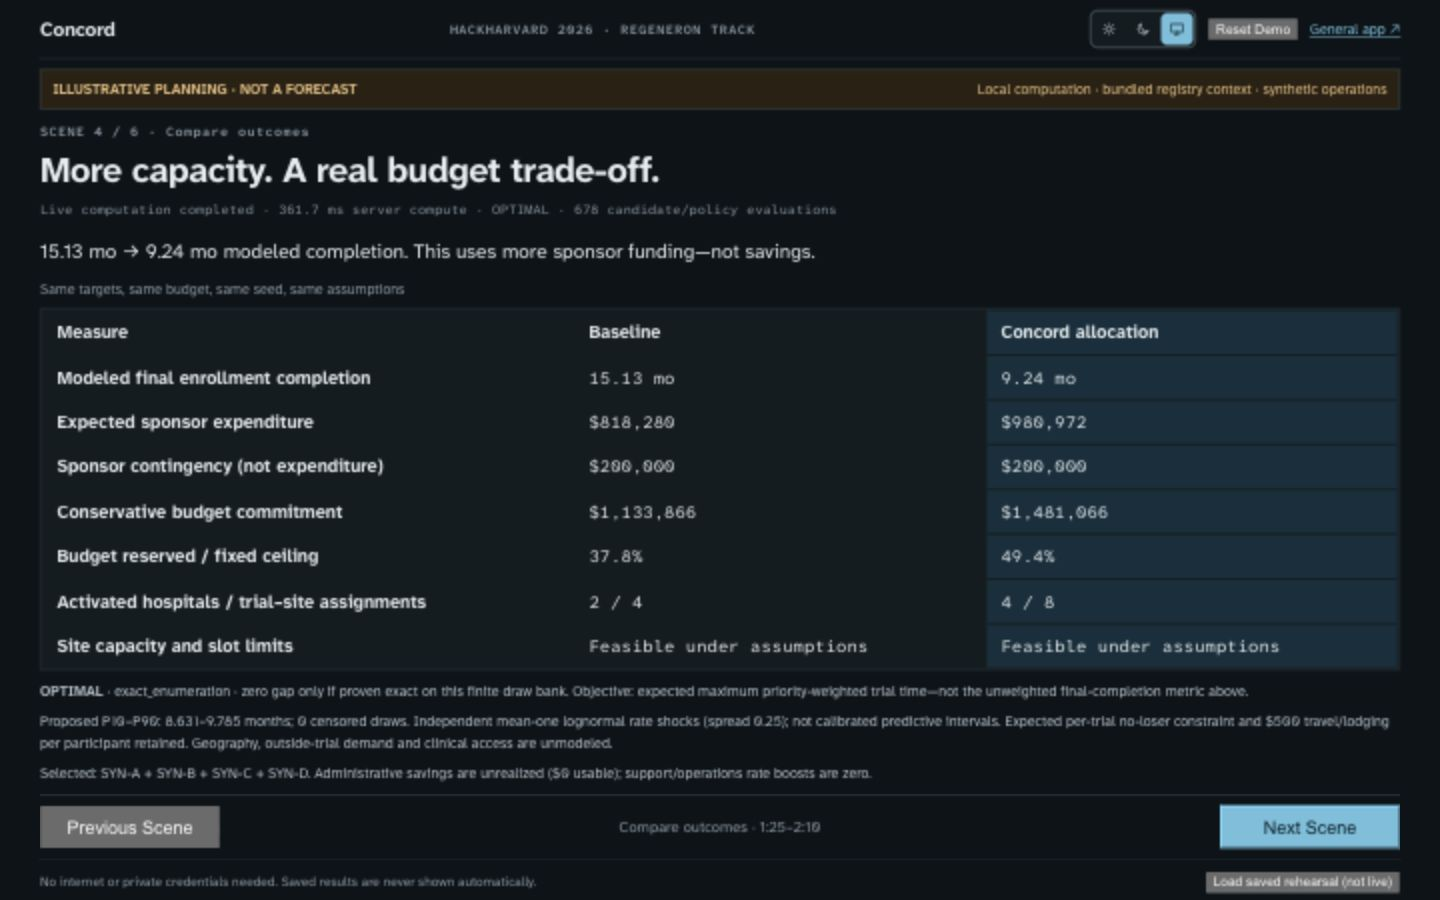
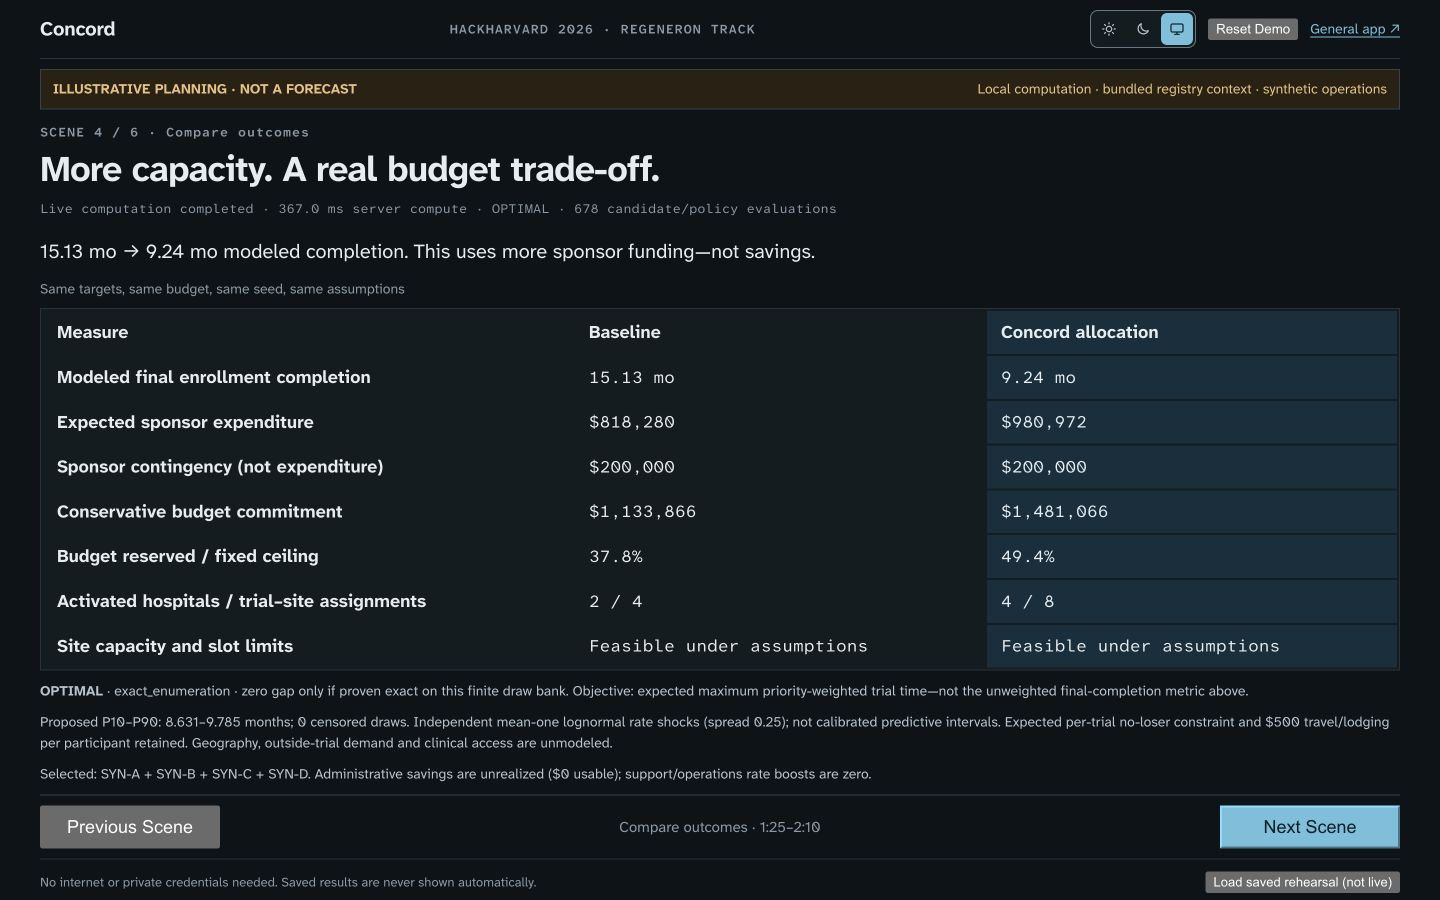
test: reverify demo against current main and refresh runtime evidence

diff --git a/frontend/public/demo/saved-report.html b/frontend/public/demo/saved-report.html
@@ -1,4 +1,4 @@
-<!doctype html><html lang="en"><meta charset="utf-8"><title>Concord portfolio evidence</title><style>body{font:16px system-ui;max-width:1100px;margin:40px auto;padding:20px}td,th{padding:12px;border:1px solid #ccc}pre{white-space:pre-wrap;overflow-wrap:anywhere}h1{color:#165e63}</style><p><b>SAVED REHEARSAL — NOT LIVE COMPUTATION</b></p><h1>Concord · Portfolio Command</h1><p>Computation evidence snapshot · synthetic operations · registry context only</p><p>Exporting or reopening this snapshot does not run a new simulation.</p><p>Run 2d632b9c1d59b88ee8e1ae94e0502bff</p><table><tr><th>Scenario</th><th>Feasible</th><th>Search status</th><th>Objective gap</th><th>Expected months (capped)</th><th>Expected USD incl. reserve</th><th>Conservative commitment USD</th></tr><tr><td>Fixed baseline</td><td>True</td><td>FIXED_COMPARISON</td><td>UNKNOWN</td><td>15.13</td><td>1,018,279.54</td><td>1,133,866.40</td></tr><tr><td>Financial efficiency</td><td>True</td><td>FIXED_COMPARISON</td><td>UNKNOWN</td><td>15.13</td><td>1,018,279.54</td><td>1,133,866.40</td></tr><tr><td>More sites</td><td>True</td><td>OPTIMAL</td><td>0.0</td><td>9.24</td><td>1,180,972.09</td><td>1,481,066.40</td></tr><tr><td>Participant support</td><td>True</td><td>FIXED_COMPARISON</td><td>UNKNOWN</td><td>15.13</td><td>1,042,279.54</td><td>1,157,866.40</td></tr><tr><td>Better allocation</td><td>True</td><td>OPTIMAL</td><td>0.0</td><td>9.24</td><td>1,180,972.09</td><td>1,481,066.40</td></tr><tr><td>Joint portfolio optimization</td><td>True</td><td>OPTIMAL</td><td>0.0</td><td>9.24</td><td>1,180,972.09</td><td>1,481,066.40</td></tr></table><h2>Limitations</h2><ul><li>Live computation on explicitly synthetic operational inputs; registry records supply identifiers, titles and sponsors only. No live Regeneron relationship or actual recruitment progress.</li><li>Current registry captures are retrospective context, never historical as-of features. No clinical outcomes, historical backtest or acceleration evidence is inferred.</li><li>Independent mean-one lognormal edge-rate shocks and continuous enrollment are assumptions. P10–P90 ranges and deadline draw fractions are not calibrated predictive probabilities.</li><li>Small admitted instances exhaustively enumerate all usable networks on the supplied finite draw bank. Larger instances use bounded beam search with unknown optimality gap. Status and termination are reported per strategy; this is not a clinical optimum. No-loser constrains expected trial times.</li><li>Site capacity is shared proportionally between activated unfinished trials. Static concurrent-trial slots are reserved for the whole network; outside trials and eligibility overlap are unknown.</li><li>Budget feasibility reserves operating/monitoring costs for the full horizon and maximum selected per-participant cost for all remaining participants. Budget assurance is limited to the modeled cost scope and horizon.</li><li>Unfinished draws are censored at the horizon. Their capped durations are lower bounds; no complete-time estimate is claimed and such networks are ineligible for recommendation.</li><li>Both Regeneron-context trials use the NCT05800015 illustrative authored financial schedule; it is an explicit proxy for NCT05785767, not its actual protocol.</li><li>Potential payer costs, participant cost sharing and reserves reuse Financial Coordination. Coverage is fixed across scenarios and never optimized; no reduction of care or cost shifting is used.</li><li>Additional support does not change rates unless an explicit hypothetical effect is supplied. Administrative reductions release budget only when marked realized.</li><li>Hospital contribution uses the inherited 80% operating-resource and 70% procedure-resource assumptions. A nonnegative contribution is an economic scenario constraint, not a fair-market-value or legal determination.</li><li>Financial Coordination is a sponsor-budget worksheet with no time model. Only Portfolio Command simulates assumed enrollment timing; payer amounts never cause a sponsor saving or rate effect.</li><li>Site participant/screening costs must exclude every itemized coverage procedure to avoid duplicate charges. Access support is travel/lodging and is not netted against cost sharing.</li><li>Synthetic financial demonstration: all candidate sites, capacities, costs, margins and payer shares are hypothetical, not registered site facts or negotiated prices.</li><li>The real trial identifier links an existing illustrative authored schedule; the registry does not publish the complete protocol. This is not a sponsor-approved protocol budget.</li><li>Medicare and insurer amounts for routine care are benchmarks: they inform fair-market-value reasoning and are inputs to the sponsor&#x27;s budget negotiation with each site or hospital.</li><li>Whether an item may be billed to an insurer follows the protocol and coverage rules (for Medicare, NCD 310.1 routine costs in qualifying trials): research-only items are the sponsor&#x27;s and are never billed to an insurer or participant. The site contract can still have the sponsor pay for a routine item (mark it SPONSOR here), and an item the sponsor pays for or supplies free is then not billed to the insurer. Insurer payment amounts are not a lever over who is billed.</li><li>In this worksheet, payer type, payer share and the commercial-rate assumption change only the insurer and participant lines; the sponsor commitment does not fall because an insurer pays more for routine care. A line moves onto the sponsor through coverage review or a contract term (for example, the site contract has the sponsor pay for a routine item), and off the sponsor only when coverage analysis finds it is billable routine care that the contract and consent form do not promise to provide free; never through the insurer&#x27;s payment amount. Payer and Medicare amounts can still inform the rate negotiated for research items (benchmark x the sponsor-site negotiated rate).</li><li>Routine coverage is potential, subject to qualifying-trial, beneficiary, jurisdiction, plan, network and service review. No insurer participates or commits funding.</li><li>Unknown responsibility is held as sponsor contingency, not billed to insurers or participants. Unresolved patient exposure is unknown, not evidence of zero liability.</li><li>Only the authored non-repeating visits (screening, cycles 1-8, end of treatment, safety follow-up) are priced. Actual drug acquisition/manufacturing, later treatment, complications and downstream outcomes are unknown; the drug contingency is an assumption, not a complete trial cost.</li><li>Access support reimburses trial-related travel and lodging; it is not netted against, and does not pay, insurer cost sharing. Whether a sponsor may cover a beneficiary&#x27;s cost sharing is a separate compliance question this worksheet does not model.</li><li>Each worksheet line is assigned to one party (sponsor, insurer, participant or sponsor contingency). That is not a billing-compliance review and does not establish that no item is billed twice. Site per-participant costs must exclude every itemized worksheet procedure, or that procedure is counted twice.</li><li>Participants are split across selected sites in proportion to stated capacity, an operator input; when an existing network that lacks capacity is extended, existing sites are filled to their stated capacity first and only the shortfall goes to added sites. It is not a measured or predicted enrollment.</li><li>Sensitivity varies only site cost inputs (seeded lognormal spread); the ranges are not calibrated intervals.</li><li>Sponsor-to-hospital payments are transfers. Consolidated resource costs use separate explicit cost assumptions; a lower sponsor payment is not automatically a system or payer saving.</li><li>No claims, reimbursements, coverage authorizations, contracts or patient-identifiable records are transmitted. Operator corrections are interpretations, not clinical or payer attestations.</li></ul><h2>Complete immutable evidence</h2><pre>{
+<!doctype html><html lang="en"><meta charset="utf-8"><title>Concord portfolio evidence</title><style>body{font:16px system-ui;max-width:1100px;margin:40px auto;padding:20px}td,th{padding:12px;border:1px solid #ccc}pre{white-space:pre-wrap;overflow-wrap:anywhere}h1{color:#165e63}</style><p><b>SAVED REHEARSAL — NOT LIVE COMPUTATION</b></p><h1>Concord · Portfolio Command</h1><p>Computation evidence snapshot · synthetic operations · registry context only</p><p>Exporting or reopening this snapshot does not run a new simulation.</p><p>Run 4b9207c1b4b89f27a853ff68cb56fa42</p><table><tr><th>Scenario</th><th>Feasible</th><th>Search status</th><th>Objective gap</th><th>Expected months (capped)</th><th>Expected USD incl. reserve</th><th>Conservative commitment USD</th></tr><tr><td>Fixed baseline</td><td>True</td><td>FIXED_COMPARISON</td><td>UNKNOWN</td><td>15.13</td><td>1,018,279.54</td><td>1,133,866.40</td></tr><tr><td>Financial efficiency</td><td>True</td><td>FIXED_COMPARISON</td><td>UNKNOWN</td><td>15.13</td><td>1,018,279.54</td><td>1,133,866.40</td></tr><tr><td>More sites</td><td>True</td><td>OPTIMAL</td><td>0.0</td><td>9.24</td><td>1,180,972.09</td><td>1,481,066.40</td></tr><tr><td>Participant support</td><td>True</td><td>FIXED_COMPARISON</td><td>UNKNOWN</td><td>15.13</td><td>1,042,279.54</td><td>1,157,866.40</td></tr><tr><td>Better allocation</td><td>True</td><td>OPTIMAL</td><td>0.0</td><td>9.24</td><td>1,180,972.09</td><td>1,481,066.40</td></tr><tr><td>Joint portfolio optimization</td><td>True</td><td>OPTIMAL</td><td>0.0</td><td>9.24</td><td>1,180,972.09</td><td>1,481,066.40</td></tr></table><h2>Limitations</h2><ul><li>Live computation on explicitly synthetic operational inputs; registry records supply identifiers, titles and sponsors only. No live Regeneron relationship or actual recruitment progress.</li><li>Current registry captures are retrospective context, never historical as-of features. No clinical outcomes, historical backtest or acceleration evidence is inferred.</li><li>Independent mean-one lognormal edge-rate shocks and continuous enrollment are assumptions. P10–P90 ranges and deadline draw fractions are not calibrated predictive probabilities.</li><li>Small admitted instances exhaustively enumerate all usable networks on the supplied finite draw bank. Larger instances use bounded beam search with unknown optimality gap. Status and termination are reported per strategy; this is not a clinical optimum. No-loser constrains expected trial times.</li><li>Site capacity is shared proportionally between activated unfinished trials. Static concurrent-trial slots are reserved for the whole network; outside trials and eligibility overlap are unknown.</li><li>Budget feasibility reserves operating/monitoring costs for the full horizon and maximum selected per-participant cost for all remaining participants. Budget assurance is limited to the modeled cost scope and horizon.</li><li>Unfinished draws are censored at the horizon. Their capped durations are lower bounds; no complete-time estimate is claimed and such networks are ineligible for recommendation.</li><li>Both Regeneron-context trials use the NCT05800015 illustrative authored financial schedule; it is an explicit proxy for NCT05785767, not its actual protocol.</li><li>Potential payer costs, participant cost sharing and reserves reuse Financial Coordination. Coverage is fixed across scenarios and never optimized; no reduction of care or cost shifting is used.</li><li>Additional support does not change rates unless an explicit hypothetical effect is supplied. Administrative reductions release budget only when marked realized.</li><li>Hospital contribution uses the inherited 80% operating-resource and 70% procedure-resource assumptions. A nonnegative contribution is an economic scenario constraint, not a fair-market-value or legal determination.</li><li>Financial Coordination is a sponsor-budget worksheet with no time model. Only Portfolio Command simulates assumed enrollment timing; payer amounts never cause a sponsor saving or rate effect.</li><li>Site participant/screening costs must exclude every itemized coverage procedure to avoid duplicate charges. Access support is travel/lodging and is not netted against cost sharing.</li><li>Synthetic financial demonstration: all candidate sites, capacities, costs, margins and payer shares are hypothetical, not registered site facts or negotiated prices.</li><li>The real trial identifier links an existing illustrative authored schedule; the registry does not publish the complete protocol. This is not a sponsor-approved protocol budget.</li><li>Medicare and insurer amounts for routine care are benchmarks: they inform fair-market-value reasoning and are inputs to the sponsor&#x27;s budget negotiation with each site or hospital.</li><li>Whether an item may be billed to an insurer follows the protocol and coverage rules (for Medicare, NCD 310.1 routine costs in qualifying trials): research-only items are the sponsor&#x27;s and are never billed to an insurer or participant. The site contract can still have the sponsor pay for a routine item (mark it SPONSOR here), and an item the sponsor pays for or supplies free is then not billed to the insurer. Insurer payment amounts are not a lever over who is billed.</li><li>In this worksheet, payer type, payer share and the commercial-rate assumption change only the insurer and participant lines; the sponsor commitment does not fall because an insurer pays more for routine care. A line moves onto the sponsor through coverage review or a contract term (for example, the site contract has the sponsor pay for a routine item), and off the sponsor only when coverage analysis finds it is billable routine care that the contract and consent form do not promise to provide free; never through the insurer&#x27;s payment amount. Payer and Medicare amounts can still inform the rate negotiated for research items (benchmark x the sponsor-site negotiated rate).</li><li>Routine coverage is potential, subject to qualifying-trial, beneficiary, jurisdiction, plan, network and service review. No insurer participates or commits funding.</li><li>Unknown responsibility is held as sponsor contingency, not billed to insurers or participants. Unresolved patient exposure is unknown, not evidence of zero liability.</li><li>Only the authored non-repeating visits (screening, cycles 1-8, end of treatment, safety follow-up) are priced. Actual drug acquisition/manufacturing, later treatment, complications and downstream outcomes are unknown; the drug contingency is an assumption, not a complete trial cost.</li><li>Access support reimburses trial-related travel and lodging; it is not netted against, and does not pay, insurer cost sharing. Whether a sponsor may cover a beneficiary&#x27;s cost sharing is a separate compliance question this worksheet does not model.</li><li>Each worksheet line is assigned to one party (sponsor, insurer, participant or sponsor contingency). That is not a billing-compliance review and does not establish that no item is billed twice. Site per-participant costs must exclude every itemized worksheet procedure, or that procedure is counted twice.</li><li>Participants are split across selected sites in proportion to stated capacity, an operator input; when an existing network that lacks capacity is extended, existing sites are filled to their stated capacity first and only the shortfall goes to added sites. It is not a measured or predicted enrollment.</li><li>Sensitivity varies only site cost inputs (seeded lognormal spread); the ranges are not calibrated intervals.</li><li>Sponsor-to-hospital payments are transfers. Consolidated resource costs use separate explicit cost assumptions; a lower sponsor payment is not automatically a system or payer saving.</li><li>No claims, reimbursements, coverage authorizations, contracts or patient-identifiable records are transmitted. Operator corrections are interpretations, not clinical or payer attestations.</li></ul><h2>Complete immutable evidence</h2><pre>{
   &quot;schema_version&quot;: 1,
   &quot;request&quot;: {
     &quot;budget&quot;: 3000000.0,
@@ -189,7 +189,7 @@
     ]
   },
   &quot;execution_mode&quot;: &quot;live_computation_synthetic_operations_registry_context&quot;,
-  &quot;input_sha256&quot;: &quot;fb8accc6b9021e3a119ddfc2a4e1972e2b7e841c19b6a14cca737cf2379d7a26&quot;,
+  &quot;input_sha256&quot;: &quot;f4b59a5e0cbf624bd5af4c38c1579ac58d35f53ef3905c50c224aa9f1019cfcf&quot;,
   &quot;scenarios&quot;: [
     {
       &quot;id&quot;: &quot;A&quot;,
@@ -10341,9 +10341,9 @@
   &quot;seed&quot;: 7,
   &quot;draws&quot;: 32,
   &quot;evidence&quot;: {
-    &quot;commit&quot;: &quot;ede0e2c2a7a799cf86801963416928e55618cf30&quot;,
+    &quot;commit&quot;: &quot;e13cc8bf5e84be79b2ea117a74a4e6d29daca71e&quot;,
     &quot;dirty&quot;: false,
-    &quot;source_sha256&quot;: &quot;f19be64a3a5af0e2679d5a2e8db2b61f9737e48eec395c27ebdd51c88f1a7c2d&quot;,
+    &quot;source_sha256&quot;: &quot;d5e76df71942f00494f5b505f77f5f7c29c63c04516509ea7fcc76a69bca1232&quot;,
     &quot;ratecard_sha256&quot;: null,
     &quot;protocol_sha256&quot;: null,
     &quot;financial_input_kind&quot;: &quot;synthetic&quot;,
@@ -10364,7 +10364,7 @@
       &quot;backend/concord/portfolio_search.py&quot;: &quot;ef0094b61d0f5ef463fd589f9390e5537dffa178a927f28b1e7b39b01caf2a4b&quot;,
       &quot;backend/concord/financial.py&quot;: &quot;d834e7188fdba57d91e959a828349d194e87222bf4cfe66fa02686aa7a9b5d41&quot;,
       &quot;backend/concord/allocator/core.py&quot;: &quot;8cc20a09feae8bafbeacc7badac260737b19af56dbf17b20b90f16ffb4c0ab62&quot;,
-      &quot;backend/concord/terms.py&quot;: &quot;c346b2a17c6ac9e4863dbd4f6725dc61c345b94e6d0dfd7969fad528479a183e&quot;,
+      &quot;backend/concord/terms.py&quot;: &quot;061eeb0cd48d09711b3463fe2877ba578ce51ccfbcadb98532dfbbc3c2facdc0&quot;,
       &quot;backend/concord/ratecard/medicare.py&quot;: &quot;79873f5ef9b189475e3fae4754ceb1741a305404459f36c9d2a40daf8410610d&quot;,
       &quot;backend/concord/financial_allocation.py&quot;: &quot;8f4e3de19aa4c19230be4cbe9b6c1c655267fd1cf3b24f471bce54048a730e74&quot;
     },
@@ -10461,6 +10461,6 @@
     &quot;Sponsor-to-hospital payments are transfers. Consolidated resource costs use separate explicit cost assumptions; a lower sponsor payment is not automatically a system or payer saving.&quot;,
     &quot;No claims, reimbursements, coverage authorizations, contracts or patient-identifiable records are transmitted. Operator corrections are interpretations, not clinical or payer attestations.&quot;
   ],
-  &quot;result_sha256&quot;: &quot;2d632b9c1d59b88ee8e1ae94e0502bff56e25b2aebe344c6ee98fe4d3696074e&quot;,
-  &quot;run_id&quot;: &quot;2d632b9c1d59b88ee8e1ae94e0502bff&quot;
+  &quot;result_sha256&quot;: &quot;4b9207c1b4b89f27a853ff68cb56fa4275e3ea97c7d959bfb9a952ce53862bf5&quot;,
+  &quot;run_id&quot;: &quot;4b9207c1b4b89f27a853ff68cb56fa42&quot;
 }</pre></html>

diff --git a/frontend/src/demoSavedDigest.ts b/frontend/src/demoSavedDigest.ts
@@ -1,2 +1,2 @@
 // Generated by scripts/capture-demo.py. Hash of genuine saved result bytes, not an outcome.
[2 lines of base64/hex data omitted]
